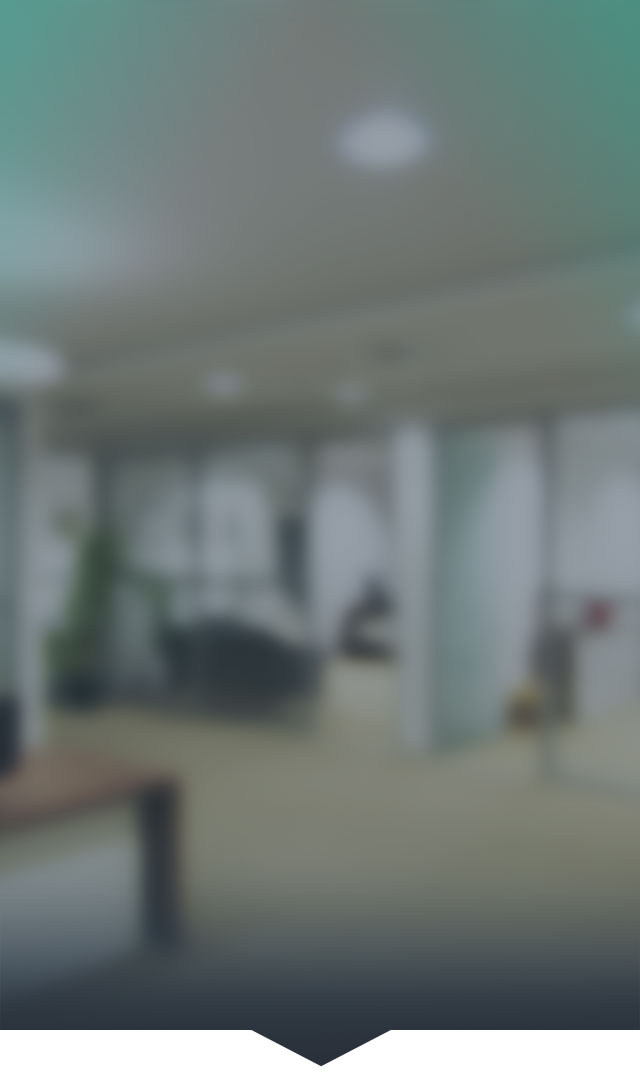
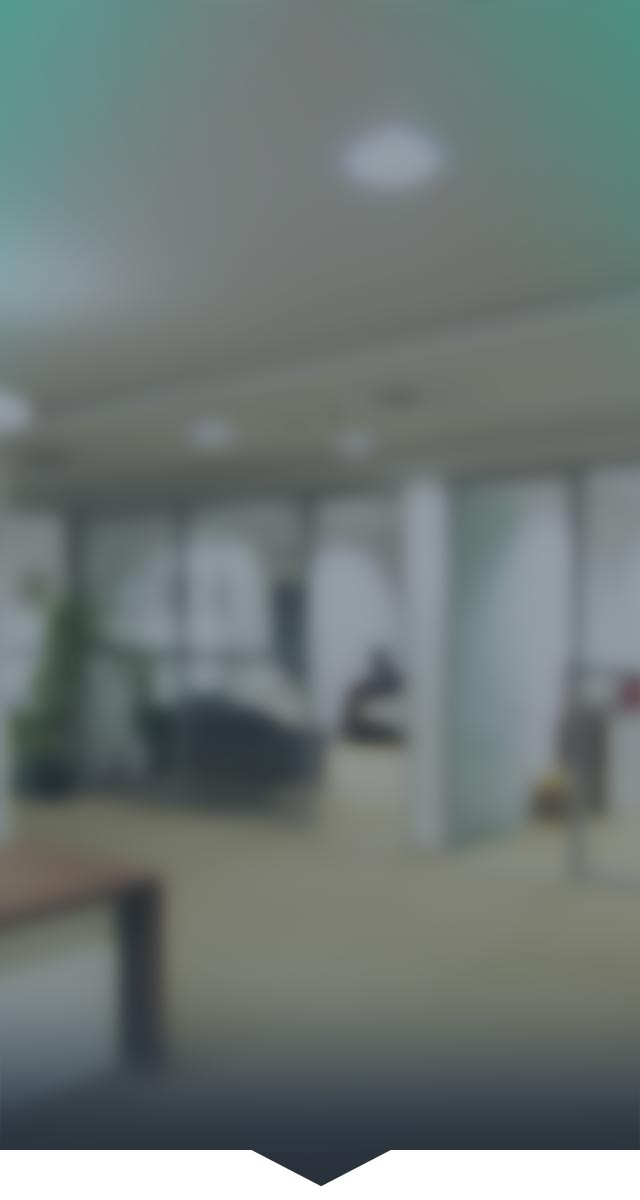
Updated mobile header image and style

diff --git a/site/styles/header_mobile.less b/site/styles/header_mobile.less
@@ -13,7 +13,7 @@ header {
 	background-position: center top;
 	background-size: 100% auto;
 	color: @color_background;
-	height: calc(~'100vw * 1.68');
+	height: calc(~'100vw * 1.875');
 	position: relative;
 }
 
